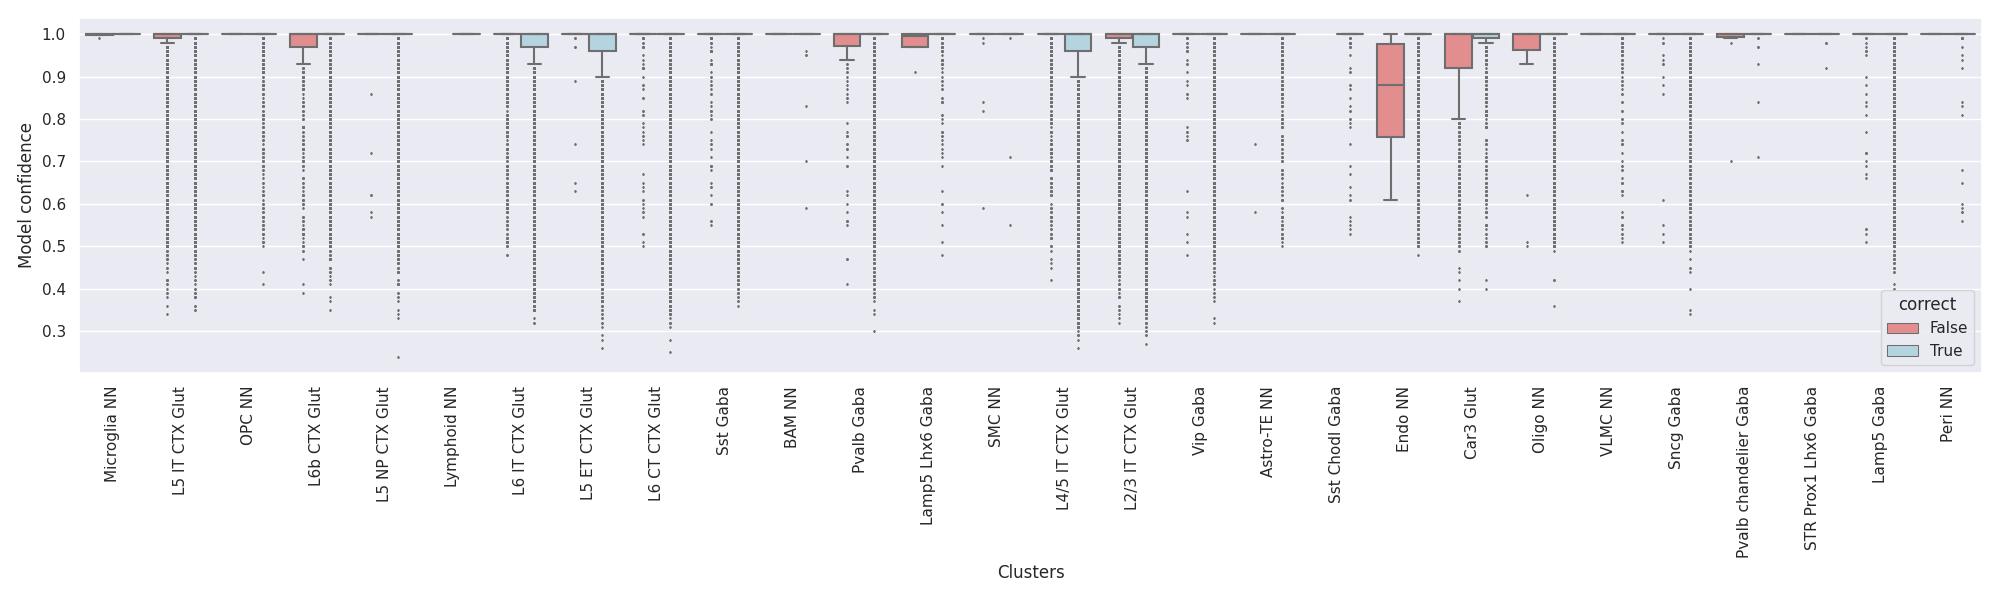
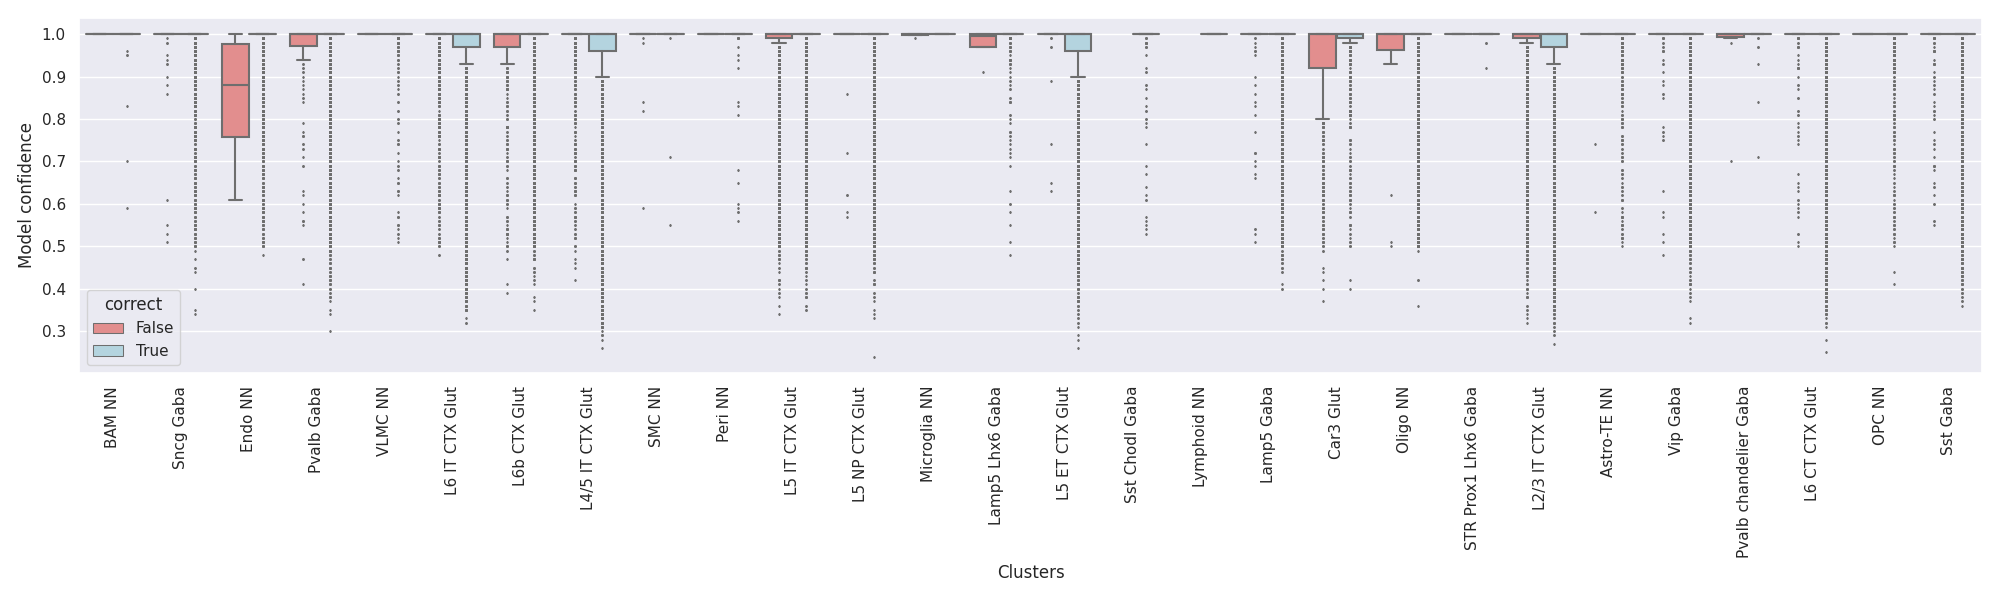
Updates

diff --git a/Mouse_reports/FLAT_mouse_WB.md b/Mouse_reports/FLAT_mouse_WB.md
@@ -1,10 +1,10 @@
-# Report card for `HANN` on `Mouse whole brain (cortex)` benchmark
+# Report card for `Flat` mapping on `Mouse whole brain (cortex)` benchmark
 
 ### Overview
 
 The accuracy of cell type mapping using the Hierarchical approximate nearest neighbor (HANN) algorithm was evaluated against the mouse whole brain (WB) cortical taxonomy.
 
-In summary, `HANN` was able to achieve **strong accuracy** at **class, neighborhood and subclass** resolution of the mouse WB cortical taxonomy containing sequencing technology batch effects.
+In summary, `Flat` mapping was able to achieve **strong accuracy** at **class, neighborhood and subclass** resolution of the mouse WB cortical taxonomy containing sequencing technology batch effects.
 
 - Summary:
     - Inputs `X` are log(CPM) normalized expression values of marker genes.
@@ -18,7 +18,7 @@ In summary, `HANN` was able to achieve **strong accuracy** at **class, neighborh
 ### Tasks
  - Primary tasks:
     1. Classification of scRNA-seq samples into whole brain clusters.
-    2. Determining generalization of `HANN` classification to samples from multiple sequencing technologies.
+    2. Determining generalization of `Flat` mapping classification to samples from multiple sequencing technologies.
  - Users: AIBS scientists and community mapping tool users.
  - Out of scope: Classification on other modalities (e.g. SMART-seq, Patch-seq, MERFISH), or regions (e.g. V1), or species (e.g. primate)
 
@@ -42,7 +42,7 @@ In summary, `HANN` was able to achieve **strong accuracy** at **class, neighborh
 
 ### Quantitative analysis
 
-Here we evaluate `HANN` at predicting high quality samples for each of the query datasets. Each annotation level can be expanded to reveal addition evaluation metrics.
+Here we evaluate `Flat` mapping at predicting high quality samples for each of the query datasets. Each annotation level can be expanded to reveal addition evaluation metrics.
 
 Annotaion | F1-score
 --- | ---
@@ -56,18 +56,18 @@ Cluster | 0.711
 <summary> Class level metrics: </summary>
 
 1. Label-wise F1-score<br>
-<img align='center' style="padding:10px 0px 10px 0px; border-radius: 0%" src="../assets/Mouse_WB/HANN/Ground_truth_class_HANN_WB_class_F1_score.png"/>
+<img align='center' style="padding:10px 0px 10px 0px; border-radius: 0%" src="../assets/Mouse_WB/FLAT/Ground_truth_class_HANN_WB_class_F1_score.png"/>
 
 2. Confidence values for correctly and incorrectly assigned labels<br>
-<img align='center' style="padding:10px 0px 10px 0px; border-radius: 0%" src="../assets/Mouse_WB/HANN/Ground_truth_class_HANN_WB_class_conf_box.png"/>
+<img align='center' style="padding:10px 0px 10px 0px; border-radius: 0%" src="../assets/Mouse_WB/FLAT/Ground_truth_class_HANN_WB_class_conf_box.png"/>
 
 3. Label-wise recall<br>
-<img align='center' style="padding:10px 0px 10px 0px; border-radius: 0%" src="../assets/Mouse_WB/HANN/Ground_truth_class_HANN_WB_class_recall.png"/>
+<img align='center' style="padding:10px 0px 10px 0px; border-radius: 0%" src="../assets/Mouse_WB/FLAT/Ground_truth_class_HANN_WB_class_recall.png"/>
 
 4. Label-wise precision<br>
-<img align='center' style="padding:10px 0px 10px 0px; border-radius: 0%" src="../assets/Mouse_WB/HANN/Ground_truth_class_HANN_WB_class_precision.png"/>
+<img align='center' style="padding:10px 0px 10px 0px; border-radius: 0%" src="../assets/Mouse_WB/FLAT/Ground_truth_class_HANN_WB_class_precision.png"/>
 
-5. Confusion matrix (row-normalized)<br><img align='center' style="padding:10px 0px 10px 0px; border-radius: 0%" src="../assets/Mouse_WB/HANN/Ground_truth_class_HANN_WB_class_conf_mat.png"/>
+5. Confusion matrix (row-normalized)<br><img align='center' style="padding:10px 0px 10px 0px; border-radius: 0%" src="../assets/Mouse_WB/FLAT/Ground_truth_class_HANN_WB_class_conf_mat.png"/>
 
 </details>
 
@@ -75,19 +75,19 @@ Cluster | 0.711
 <summary> Neighborhood level metrics: </summary>
 
 1. Label-wise F1-score<br>
-<img align='center' style="padding:10px 0px 10px 0px; border-radius: 0%" src="../assets/Mouse_WB/HANN/Ground_truth_neighborhood_HANN_WB_neighborhood_F1_score.png"/>
+<img align='center' style="padding:10px 0px 10px 0px; border-radius: 0%" src="../assets/Mouse_WB/FLAT/Ground_truth_neighborhood_HANN_WB_neighborhood_F1_score.png"/>
 
 2. Confidence values for correctly and incorrectly assigned labels<br>
-<img align='center' style="padding:10px 0px 10px 0px; border-radius: 0%" src="../assets/Mouse_WB/HANN/Ground_truth_neighborhood_HANN_WB_neighborhood_conf_box.png"/>
+<img align='center' style="padding:10px 0px 10px 0px; border-radius: 0%" src="../assets/Mouse_WB/FLAT/Ground_truth_neighborhood_HANN_WB_neighborhood_conf_box.png"/>
 
 3. Label-wise recall<br>
-<img align='center' style="padding:10px 0px 10px 0px; border-radius: 0%" src="../assets/Mouse_WB/HANN/Ground_truth_neighborhood_HANN_WB_neighborhood_recall.png"/>
+<img align='center' style="padding:10px 0px 10px 0px; border-radius: 0%" src="../assets/Mouse_WB/FLAT/Ground_truth_neighborhood_HANN_WB_neighborhood_recall.png"/>
 
 4. Label-wise precision<br>
-<img align='center' style="padding:10px 0px 10px 0px; border-radius: 0%" src="../assets/Mouse_WB/HANN/Ground_truth_neighborhood_HANN_WB_neighborhood_precision.png"/>
+<img align='center' style="padding:10px 0px 10px 0px; border-radius: 0%" src="../assets/Mouse_WB/FLAT/Ground_truth_neighborhood_HANN_WB_neighborhood_precision.png"/>
 
 5. Confusion matrix (row-normalized)<br>
-<img align='center' style="padding:10px 0px 10px 0px; border-radius: 0%" src="../assets/Mouse_WB/HANN/Ground_truth_neighborhood_HANN_WB_neighborhood_conf_mat.png"/>
+<img align='center' style="padding:10px 0px 10px 0px; border-radius: 0%" src="../assets/Mouse_WB/FLAT/Ground_truth_neighborhood_HANN_WB_neighborhood_conf_mat.png"/>
 
 </details>
 
@@ -96,19 +96,19 @@ Cluster | 0.711
 <summary> Subclass level metrics: </summary>
 
 1. Label-wise F1-score<br>
-<img align='center' style="padding:10px 0px 10px 0px; border-radius: 0%" src="../assets/Mouse_WB/HANN/Ground_truth_subclass_HANN_WB_subclass_F1_score.png"/>
+<img align='center' style="padding:10px 0px 10px 0px; border-radius: 0%" src="../assets/Mouse_WB/FLAT/Ground_truth_subclass_HANN_WB_subclass_F1_score.png"/>
 
 2. Confidence values for correctly and incorrectly assigned labels<br>
-<img align='center' style="padding:10px 0px 10px 0px; border-radius: 0%" src="../assets/Mouse_WB/HANN/Ground_truth_subclass_HANN_WB_subclass_conf_box.png"/>
+<img align='center' style="padding:10px 0px 10px 0px; border-radius: 0%" src="../assets/Mouse_WB/FLAT/Ground_truth_subclass_HANN_WB_subclass_conf_box.png"/>
 
 3. Label-wise recall<br>
-<img align='center' style="padding:10px 0px 10px 0px; border-radius: 0%" src="../assets/Mouse_WB/HANN/Ground_truth_subclass_HANN_WB_subclass_recall.png"/>
+<img align='center' style="padding:10px 0px 10px 0px; border-radius: 0%" src="../assets/Mouse_WB/FLAT/Ground_truth_subclass_HANN_WB_subclass_recall.png"/>
 
 4. Label-wise precision<br>
-<img align='center' style="padding:10px 0px 10px 0px; border-radius: 0%" src="../assets/Mouse_WB/HANN/Ground_truth_subclass_HANN_WB_subclass_precision.png"/>
+<img align='center' style="padding:10px 0px 10px 0px; border-radius: 0%" src="../assets/Mouse_WB/FLAT/Ground_truth_subclass_HANN_WB_subclass_precision.png"/>
 
 5. Confusion matrix (row-normalized)<br>
-<img align='center' style="padding:10px 0px 10px 0px; border-radius: 0%" src="../assets/Mouse_WB/HANN/Ground_truth_subclass_HANN_WB_subclass_conf_mat.png"/>
+<img align='center' style="padding:10px 0px 10px 0px; border-radius: 0%" src="../assets/Mouse_WB/FLAT/Ground_truth_subclass_HANN_WB_subclass_conf_mat.png"/>
 
 </details>
 
@@ -116,38 +116,38 @@ Cluster | 0.711
 <summary> Cluster metrics: </summary>
 
 1. Label-wise F1-score<br>
-<img align='center' style="padding:10px 0px 10px 0px; border-radius: 0%" src="../assets/Mouse_WB/HANN/gt_cl_HANN_WB_all_F1_score.png"/>
+<img align='center' style="padding:10px 0px 10px 0px; border-radius: 0%" src="../assets/Mouse_WB/FLAT/gt_cl_HANN_WB_all_F1_score.png"/>
 
 2. Confidence values for correctly and incorrectly assigned labels<br>
-<img align='center' style="padding:10px 0px 10px 0px; border-radius: 0%" src="../assets/Mouse_WB/HANN/gt_cl_HANN_WB_all_conf_box.png"/>
+<img align='center' style="padding:10px 0px 10px 0px; border-radius: 0%" src="../assets/Mouse_WB/FLAT/gt_cl_HANN_WB_all_conf_box.png"/>
 
 3. Label-wise recall<br>
-<img align='center' style="padding:10px 0px 10px 0px; border-radius: 0%" src="../assets/Mouse_WB/HANN/gt_cl_HANN_WB_all_recall.png"/>
+<img align='center' style="padding:10px 0px 10px 0px; border-radius: 0%" src="../assets/Mouse_WB/FLAT/gt_cl_HANN_WB_all_recall.png"/>
 
 4. Label-wise precision<br>
-<img align='center' style="padding:10px 0px 10px 0px; border-radius: 0%" src="../assets/Mouse_WB/HANN/gt_cl_HANN_WB_all_precision.png"/>
+<img align='center' style="padding:10px 0px 10px 0px; border-radius: 0%" src="../assets/Mouse_WB/FLAT/gt_cl_HANN_WB_all_precision.png"/>
 
 5. Confusion matrix (row-normalized)<br>
-<img align='center' style="padding:10px 0px 10px 0px; border-radius: 0%" src="../assets/Mouse_WB/HANN/gt_cl_HANN_WB_all_conf_mat.png"/>
+<img align='center' style="padding:10px 0px 10px 0px; border-radius: 0%" src="../assets/Mouse_WB/FLAT/gt_cl_HANN_WB_all_conf_mat.png"/>
 
 </details>
 
 ### Sequencing technology effect analysis
 
-Here we evaluate `HANN` at correctly predicting the Subclass label for multiple sequencing technologies.
+Here we evaluate `Flat` mapping at correctly predicting the Subclass label for multiple sequencing technologies.
 
 Query | Annotation | F1-score | | Annotation | F1-score          
 --- | --- | --- | --- | --- | ---                  
-10X_cells_v3_AIBS | Subclass | 0.972 | | Cluster | 0.857     
-10X_nuclei_v3_AIBS | Subclass | 0.943 | | Cluster | 0.785
-10X_nuclei_v3_Broad | Subclass | 0.966 | | Cluster | 0.854
-10X_cells_v2_AIBS | Subclass | 0.976 | | Cluster | 0.855
-10X_nuclei_v2_AIBS | Subclass | 0.918 | | Cluster | 0.650
-SmartSeq_cells_AIBS | Subclass | 0.971 | | Cluster | 0.812
-SmartSeq_nuclei_AIBS | Subclass | 0.961 | | Cluster | 0.803
+10X_cells_v3_AIBS | Subclass | 0.979 | | Cluster | 0.869    
+10X_nuclei_v3_AIBS | Subclass | 0.886 | | Cluster | 0.665
+10X_nuclei_v3_Broad | Subclass | 0.975 | | Cluster | 0.849
+10X_cells_v2_AIBS | Subclass | 0.975 | | Cluster | 0.837
+10X_nuclei_v2_AIBS | Subclass | 0.848 | | Cluster | 0.256
+SmartSeq_cells_AIBS | Subclass | 0.944 | | Cluster | 0.752
+SmartSeq_nuclei_AIBS | Subclass | 0.969 | | Cluster | 0.811
 
-<img align='center' style="padding:10px 0px 10px 0px; border-radius: 0%" src="../assets/Mouse_WB/HANN/Ground_truth_subclass_HANN_WB_subclass_cond_conf_box.png"/>
+<img align='center' style="padding:10px 0px 10px 0px; border-radius: 0%" src="../assets/Mouse_WB/FLAT/Ground_truth_subclass_HANN_WB_subclass_cond_conf_box.png"/>
 
 ### Recommendations and caveats
- - At the **Class**, **Neighborhood**, and **Subclass** level, for high quality RNA-seq data - `HANN` makes few errors.
- - `HANN` robustly classify samples under varying conditions imparting donor and disease specific changes in gene expression.
+ - At the **Class**, **Neighborhood**, and **Subclass** level, for high quality RNA-seq data - `Flat` mapping makes more errors than `HANN` but still has strong performance.
+ - `Flat` mapping robustly classify samples under varying conditions imparting donor and disease specific changes in gene expression.

diff --git a/Mouse_reports/HANN_FindMarkers_mouse_WB.md b/Mouse_reports/HANN_FindMarkers_mouse_WB.md
@@ -10,7 +10,7 @@ In summary, `HANN` was able to achieve **strong accuracy** at **class, neighborh
     - Inputs `X` are log(CPM) normalized expression values of marker genes.
     - Hierarchy was encoded by Class, Neighborhood, Subclass, Cluster.
     - `Confidence` values were derived via bootstraping.
- - Runtime: 0.77 Hours
+ - Runtime: 17.41 Hours
  - Version: X.Y.Z
  - Repository: [TBD](TBD)
  - Publication: --
@@ -56,18 +56,18 @@ Cluster | 0.711
 <summary> Class level metrics: </summary>
 
 1. Label-wise F1-score<br>
-<img align='center' style="padding:10px 0px 10px 0px; border-radius: 0%" src="../assets/Mouse_WB/HANN/Ground_truth_class_HANN_WB_class_F1_score.png"/>
+<img align='center' style="padding:10px 0px 10px 0px; border-radius: 0%" src="../assets/Mouse_WB/HANN_FindMarkers/Ground_truth_class_HANN_WB_class_F1_score.png"/>
 
 2. Confidence values for correctly and incorrectly assigned labels<br>
-<img align='center' style="padding:10px 0px 10px 0px; border-radius: 0%" src="../assets/Mouse_WB/HANN/Ground_truth_class_HANN_WB_class_conf_box.png"/>
+<img align='center' style="padding:10px 0px 10px 0px; border-radius: 0%" src="../assets/Mouse_WB/HANN_FindMarkers/Ground_truth_class_HANN_WB_class_conf_box.png"/>
 
 3. Label-wise recall<br>
-<img align='center' style="padding:10px 0px 10px 0px; border-radius: 0%" src="../assets/Mouse_WB/HANN/Ground_truth_class_HANN_WB_class_recall.png"/>
+<img align='center' style="padding:10px 0px 10px 0px; border-radius: 0%" src="../assets/Mouse_WB/HANN_FindMarkers/Ground_truth_class_HANN_WB_class_recall.png"/>
 
 4. Label-wise precision<br>
-<img align='center' style="padding:10px 0px 10px 0px; border-radius: 0%" src="../assets/Mouse_WB/HANN/Ground_truth_class_HANN_WB_class_precision.png"/>
+<img align='center' style="padding:10px 0px 10px 0px; border-radius: 0%" src="../assets/Mouse_WB/HANN_FindMarkers/Ground_truth_class_HANN_WB_class_precision.png"/>
 
-5. Confusion matrix (row-normalized)<br><img align='center' style="padding:10px 0px 10px 0px; border-radius: 0%" src="../assets/Mouse_WB/HANN/Ground_truth_class_HANN_WB_class_conf_mat.png"/>
+5. Confusion matrix (row-normalized)<br><img align='center' style="padding:10px 0px 10px 0px; border-radius: 0%" src="../assets/Mouse_WB/HANN_FindMarkers/Ground_truth_class_HANN_WB_class_conf_mat.png"/>
 
 </details>
 
@@ -75,19 +75,19 @@ Cluster | 0.711
 <summary> Neighborhood level metrics: </summary>
 
 1. Label-wise F1-score<br>
-<img align='center' style="padding:10px 0px 10px 0px; border-radius: 0%" src="../assets/Mouse_WB/HANN/Ground_truth_neighborhood_HANN_WB_neighborhood_F1_score.png"/>
+<img align='center' style="padding:10px 0px 10px 0px; border-radius: 0%" src="../assets/Mouse_WB/HANN_FindMarkers/Ground_truth_neighborhood_HANN_WB_neighborhood_F1_score.png"/>
 
 2. Confidence values for correctly and incorrectly assigned labels<br>
-<img align='center' style="padding:10px 0px 10px 0px; border-radius: 0%" src="../assets/Mouse_WB/HANN/Ground_truth_neighborhood_HANN_WB_neighborhood_conf_box.png"/>
+<img align='center' style="padding:10px 0px 10px 0px; border-radius: 0%" src="../assets/Mouse_WB/HANN_FindMarkers/Ground_truth_neighborhood_HANN_WB_neighborhood_conf_box.png"/>
 
 3. Label-wise recall<br>
-<img align='center' style="padding:10px 0px 10px 0px; border-radius: 0%" src="../assets/Mouse_WB/HANN/Ground_truth_neighborhood_HANN_WB_neighborhood_recall.png"/>
+<img align='center' style="padding:10px 0px 10px 0px; border-radius: 0%" src="../assets/Mouse_WB/HANN_FindMarkers/Ground_truth_neighborhood_HANN_WB_neighborhood_recall.png"/>
 
 4. Label-wise precision<br>
-<img align='center' style="padding:10px 0px 10px 0px; border-radius: 0%" src="../assets/Mouse_WB/HANN/Ground_truth_neighborhood_HANN_WB_neighborhood_precision.png"/>
+<img align='center' style="padding:10px 0px 10px 0px; border-radius: 0%" src="../assets/Mouse_WB/HANN_FindMarkers/Ground_truth_neighborhood_HANN_WB_neighborhood_precision.png"/>
 
 5. Confusion matrix (row-normalized)<br>
-<img align='center' style="padding:10px 0px 10px 0px; border-radius: 0%" src="../assets/Mouse_WB/HANN/Ground_truth_neighborhood_HANN_WB_neighborhood_conf_mat.png"/>
+<img align='center' style="padding:10px 0px 10px 0px; border-radius: 0%" src="../assets/Mouse_WB/HANN_FindMarkers/Ground_truth_neighborhood_HANN_WB_neighborhood_conf_mat.png"/>
 
 </details>
 
@@ -96,19 +96,19 @@ Cluster | 0.711
 <summary> Subclass level metrics: </summary>
 
 1. Label-wise F1-score<br>
-<img align='center' style="padding:10px 0px 10px 0px; border-radius: 0%" src="../assets/Mouse_WB/HANN/Ground_truth_subclass_HANN_WB_subclass_F1_score.png"/>
+<img align='center' style="padding:10px 0px 10px 0px; border-radius: 0%" src="../assets/Mouse_WB/HANN_FindMarkers/Ground_truth_subclass_HANN_WB_subclass_F1_score.png"/>
 
 2. Confidence values for correctly and incorrectly assigned labels<br>
-<img align='center' style="padding:10px 0px 10px 0px; border-radius: 0%" src="../assets/Mouse_WB/HANN/Ground_truth_subclass_HANN_WB_subclass_conf_box.png"/>
+<img align='center' style="padding:10px 0px 10px 0px; border-radius: 0%" src="../assets/Mouse_WB/HANN_FindMarkers/Ground_truth_subclass_HANN_WB_subclass_conf_box.png"/>
 
 3. Label-wise recall<br>
-<img align='center' style="padding:10px 0px 10px 0px; border-radius: 0%" src="../assets/Mouse_WB/HANN/Ground_truth_subclass_HANN_WB_subclass_recall.png"/>
+<img align='center' style="padding:10px 0px 10px 0px; border-radius: 0%" src="../assets/Mouse_WB/HANN_FindMarkers/Ground_truth_subclass_HANN_WB_subclass_recall.png"/>
 
 4. Label-wise precision<br>
-<img align='center' style="padding:10px 0px 10px 0px; border-radius: 0%" src="../assets/Mouse_WB/HANN/Ground_truth_subclass_HANN_WB_subclass_precision.png"/>
+<img align='center' style="padding:10px 0px 10px 0px; border-radius: 0%" src="../assets/Mouse_WB/HANN_FindMarkers/Ground_truth_subclass_HANN_WB_subclass_precision.png"/>
 
 5. Confusion matrix (row-normalized)<br>
-<img align='center' style="padding:10px 0px 10px 0px; border-radius: 0%" src="../assets/Mouse_WB/HANN/Ground_truth_subclass_HANN_WB_subclass_conf_mat.png"/>
+<img align='center' style="padding:10px 0px 10px 0px; border-radius: 0%" src="../assets/Mouse_WB/HANN_FindMarkers/Ground_truth_subclass_HANN_WB_subclass_conf_mat.png"/>
 
 </details>
 
@@ -116,19 +116,19 @@ Cluster | 0.711
 <summary> Cluster metrics: </summary>
 
 1. Label-wise F1-score<br>
-<img align='center' style="padding:10px 0px 10px 0px; border-radius: 0%" src="../assets/Mouse_WB/HANN/gt_cl_HANN_WB_all_F1_score.png"/>
+<img align='center' style="padding:10px 0px 10px 0px; border-radius: 0%" src="../assets/Mouse_WB/HANN_FindMarkers/gt_cl_HANN_WB_all_F1_score.png"/>
 
 2. Confidence values for correctly and incorrectly assigned labels<br>
-<img align='center' style="padding:10px 0px 10px 0px; border-radius: 0%" src="../assets/Mouse_WB/HANN/gt_cl_HANN_WB_all_conf_box.png"/>
+<img align='center' style="padding:10px 0px 10px 0px; border-radius: 0%" src="../assets/Mouse_WB/HANN_FindMarkers/gt_cl_HANN_WB_all_conf_box.png"/>
 
 3. Label-wise recall<br>
-<img align='center' style="padding:10px 0px 10px 0px; border-radius: 0%" src="../assets/Mouse_WB/HANN/gt_cl_HANN_WB_all_recall.png"/>
+<img align='center' style="padding:10px 0px 10px 0px; border-radius: 0%" src="../assets/Mouse_WB/HANN_FindMarkers/gt_cl_HANN_WB_all_recall.png"/>
 
 4. Label-wise precision<br>
-<img align='center' style="padding:10px 0px 10px 0px; border-radius: 0%" src="../assets/Mouse_WB/HANN/gt_cl_HANN_WB_all_precision.png"/>
+<img align='center' style="padding:10px 0px 10px 0px; border-radius: 0%" src="../assets/Mouse_WB/HANN_FindMarkers/gt_cl_HANN_WB_all_precision.png"/>
 
 5. Confusion matrix (row-normalized)<br>
-<img align='center' style="padding:10px 0px 10px 0px; border-radius: 0%" src="../assets/Mouse_WB/HANN/gt_cl_HANN_WB_all_conf_mat.png"/>
+<img align='center' style="padding:10px 0px 10px 0px; border-radius: 0%" src="../assets/Mouse_WB/HANN_FindMarkers/gt_cl_HANN_WB_all_conf_mat.png"/>
 
 </details>
 
@@ -138,15 +138,15 @@ Here we evaluate `HANN` at correctly predicting the Subclass label for multiple 
 
 Query | Annotation | F1-score | | Annotation | F1-score          
 --- | --- | --- | --- | --- | ---                  
-10X_cells_v3_AIBS | Subclass | 0.972 | | Cluster | 0.857     
-10X_nuclei_v3_AIBS | Subclass | 0.943 | | Cluster | 0.785
-10X_nuclei_v3_Broad | Subclass | 0.966 | | Cluster | 0.854
+10X_cells_v3_AIBS | Subclass | 0.971 | | Cluster | 0.857     
+10X_nuclei_v3_AIBS | Subclass | 0.947 | | Cluster | 0.785
+10X_nuclei_v3_Broad | Subclass | 0.970 | | Cluster | 0.854
 10X_cells_v2_AIBS | Subclass | 0.976 | | Cluster | 0.855
-10X_nuclei_v2_AIBS | Subclass | 0.918 | | Cluster | 0.650
-SmartSeq_cells_AIBS | Subclass | 0.971 | | Cluster | 0.812
+10X_nuclei_v2_AIBS | Subclass | 0.919 | | Cluster | 0.650
+SmartSeq_cells_AIBS | Subclass | 0.970 | | Cluster | 0.812
 SmartSeq_nuclei_AIBS | Subclass | 0.961 | | Cluster | 0.803
 
-<img align='center' style="padding:10px 0px 10px 0px; border-radius: 0%" src="../assets/Mouse_WB/HANN/Ground_truth_subclass_HANN_WB_subclass_cond_conf_box.png"/>
+<img align='center' style="padding:10px 0px 10px 0px; border-radius: 0%" src="../assets/Mouse_WB/HANN_FindMarkers/Ground_truth_subclass_HANN_WB_subclass_cond_conf_box.png"/>
 
 ### Recommendations and caveats
  - At the **Class**, **Neighborhood**, and **Subclass** level, for high quality RNA-seq data - `HANN` makes few errors.
